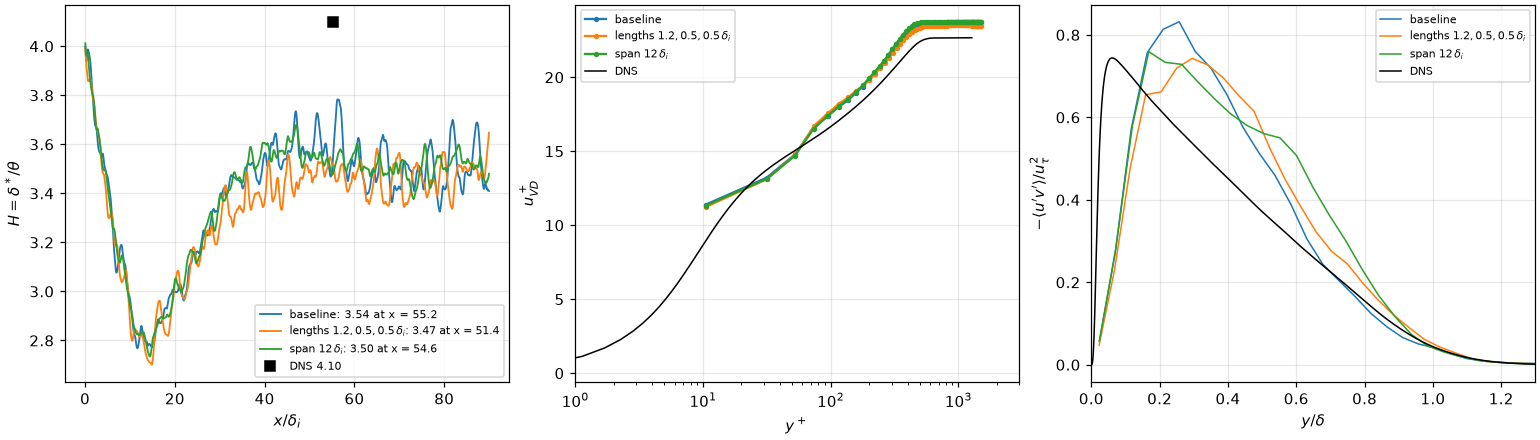
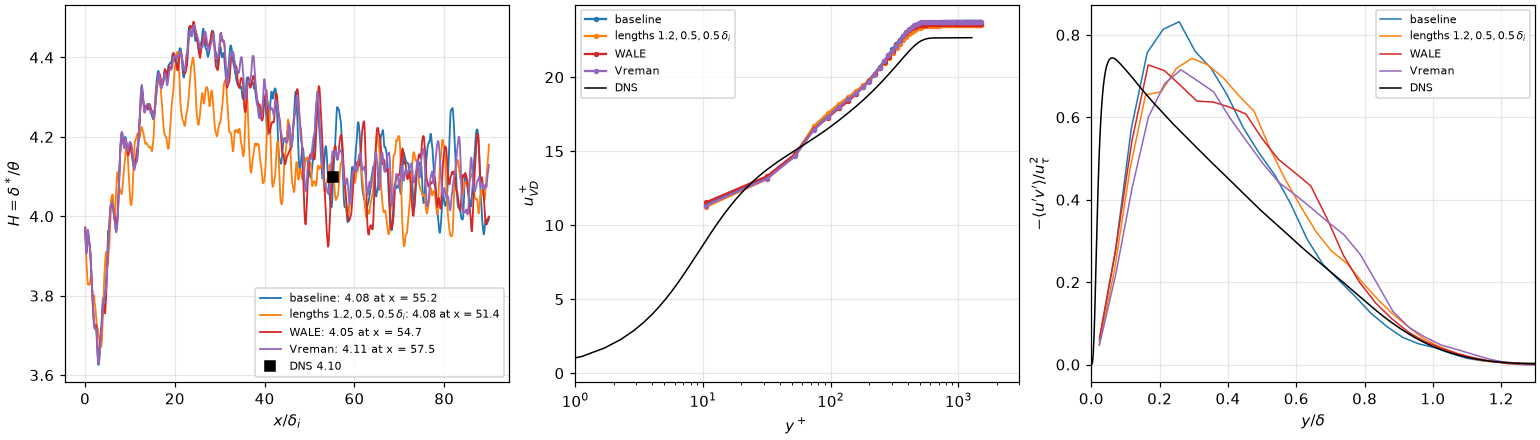
test(flume): the boundary layer's shape factor against the local free stream, and a subgrid model (#119)
The "H deficit" of T3.7 was the measurement. The DNS of Zhang, Duan &
Choudhari normalises its profiles by its free stream at the station; the
run's free stream is compressed by the layer's growth (p_e / p_inf 1.013 at
Mach 2.5, 1.042 at Mach 5.86 at the station, 1.027 and 1.08 near
x = 15 delta_i), and tbl_oracle.py took delta* and theta against the nominal
rho_inf, U_inf, integrated to the top of the box. Against the local edge
state H is the DNS's:

  Mach 2.5 baseline 4.08, filter lengths 4.08, span 12 delta_i 4.11, WALE
  4.05, Vreman 4.11, delta_i / 16 4.23 (DNS 4.10, its profile 4.22; the
  nominal values were 3.47-3.62); Mach 5.86 13.41, under Sutherland 13.71
  (DNS 13.6, its profile 14.9; nominal 9.56, 9.76).

The edge over 2.5-3.5, 3-5 or 4-5.5 delta_i moves H by 0.04.

- tbl_oracle.py compare: H against the edge state (edge_shape: rho_e, the
  Favre u_e over 1.5-2.5 delta, the integrals to 1.5 delta), the DNS
  profile's own H (profile_shape) for reference; H_nominal, rho_e, p_e and
  h_dns_profile in the JSON. Re_theta and the station still from the
  nominal theta.
- tbl_cases_t37_sgs.txt: the delta_i / 12 baseline with sgs_model = wale and
  vreman. Neither changes the layer much (C_f -3.3 %, -4.5 %); WALE's eddy
  viscosity is about 1.5 times the molecular one in the outer layer. What
  is left is in the stresses: the outer -<u'v'> 0.49-0.57 against 0.37.
- make_doc_figures.py: fig_tbl_edge (tbl-edge.png: edge against nominal H,
[…]

diff --git a/src/tests/flume/verification/make_doc_figures.py b/src/tests/flume/verification/make_doc_figures.py
@@ -2558,10 +2558,11 @@ def fig_tbl_m2p5_res(out: Path, runs: Path) -> None:
 
 
 def fig_tbl_hdef(out: Path, runs: Path) -> None:
-    """T3.7 (issue #119): the shape-factor deficit of the Mach 2.5 layer, three runs at delta_i / 12 that differ in one setting each
-    (tbl_cases_t37_l90.txt, the baseline; tbl_cases_t37_hdef.txt, the filter's integral lengths 1.2, 0.5, 0.5 delta_i and a span of 12 delta_i),
-    against the DNS (tbl_oracle.py compare of each, 180 < t <= 360). Left H against x, the DNS at its station; middle u+_VD at the station of the
-    DNS's Re_theta, each with its own u_tau, where the wake carries H; right -<u'v'> over u_tau^2 against y / delta."""
+    """T3.7 (issue #119): the Mach 2.5 layer at delta_i / 12, four runs that differ in one setting each (tbl_cases_t37_l90.txt, the baseline;
+    tbl_cases_t37_hdef.txt, the filter's integral lengths 1.2, 0.5, 0.5 delta_i; tbl_cases_t37_sgs.txt, WALE and Vreman; the span of 12 delta_i,
+    whose checkpoints stay on the cluster, in the table only),
+    against the DNS (tbl_oracle.py compare of each, 180 < t <= 360). Left H against the local edge state against x, the DNS at its station;
+    middle u+_VD at the station of the DNS's Re_theta, each with its own u_tau; right -<u'v'> over u_tau^2 against y / delta."""
     import json  # noqa: PLC0415
     import tempfile  # noqa: PLC0415
 
@@ -2570,7 +2571,8 @@ def fig_tbl_hdef(out: Path, runs: Path) -> None:
 
     stat = HERE / "turbulence" / "reference" / "M2p5_Stat.txt"
     res = {}
-    for case, lab in (("m2p5-wm-l90", "baseline"), ("m2p5-wm-df", r"lengths $1.2, 0.5, 0.5\,\delta_i$"), ("m2p5-wm-z12", r"span $12\,\delta_i$")):
+    for case, lab in (("m2p5-wm-l90", "baseline"), ("m2p5-wm-df", r"lengths $1.2, 0.5, 0.5\,\delta_i$"), 
+                      ("m2p5-wm-wale", "WALE"), ("m2p5-wm-vreman", "Vreman")):
         work = runs / "tbl" / case
         if not work.exists():
             raise FileNotFoundError(work)
@@ -2580,7 +2582,7 @@ def fig_tbl_hdef(out: Path, runs: Path) -> None:
             res[lab] = json.loads(js.read_text())
     _, d = to.read_stat(stat)
     fig, axs = plt.subplots(1, 3, figsize=(14.0, 4.0), constrained_layout=True)
-    for (lab, j), c in zip(res.items(), ("C0", "C1", "C2"), strict=True):
+    for (lab, j), c in zip(res.items(), ("C0", "C1", "C3", "C4"), strict=True):
         ist = j["station"]
         h = np.array([np.nan if v is None else v for v in j["H"]])
         axs[0].plot(j["x"], h, color=c, lw=1.2, label=f"{lab}: {h[ist]:.2f} at x = {j['x'][ist]:.1f}")
@@ -2602,6 +2604,50 @@ def fig_tbl_hdef(out: Path, runs: Path) -> None:
         ax.grid(alpha=0.3)
         ax.legend(fontsize=7)
     fig.savefig(out / "tbl-m2p5-hdef.png", dpi=DPI)
+    plt.close(fig)
+
+
+def fig_tbl_edge(out: Path, runs: Path) -> None:
+    """T3.7 (issue #119): H against the local edge state, as the DNS normalises its profiles, and against the nominal free stream, which the
+    compression of the free stream over the layer biases (tbl_oracle.py compare of each, 180 < t <= 360). Left the Mach 2.5 baseline
+    (tbl_cases_t37_l90.txt), right the Mach 5.86 cold wall (tbl_cases_t37_m6.txt), H against x, the DNS's header H and its profile's (the
+    same integrals) at its station; middle p_e / p_inf and rho_e / rho_inf at the edge of both layers against x."""
+    import json  # noqa: PLC0415
+    import tempfile  # noqa: PLC0415
+
+    sys.path.insert(0, str(HERE / "turbulence"))
+    import tbl_oracle as to  # noqa: PLC0415
+
+    fig, axs = plt.subplots(1, 3, figsize=(14.0, 4.0), constrained_layout=True)
+    for (case, stat, re_inf, x_dns, ax, lab), c in zip(
+        (("m2p5-wm-l90", "M2p5_Stat.txt", None, 53.0, axs[0], "Mach 2.5"), ("m6tw076-wm", "M6Tw076_Stat.txt", 137350.0, 54.0, axs[2], "Mach 5.86")),
+        ("C0", "C3"), strict=True):
+        work = runs / "tbl" / case
+        if not work.exists():
+            raise FileNotFoundError(work)
+        st = HERE / "turbulence" / "reference" / stat
+        with tempfile.TemporaryDirectory() as tmp:
+            js = Path(tmp) / "tbl.json"
+            to.compare(str(work), str(st), 180.0001, str(js), re_inf)
+            j = json.loads(js.read_text())
+        x = np.array(j["x"])
+        ist = j["station"]
+        h, hn = (np.array([np.nan if v is None else v for v in j[k]]) for k in ("H", "H_nominal"))
+        ax.plot(x, h, color=c, lw=1.2, label=f"against the edge state: {h[ist]:.2f} at x = {x[ist]:.1f}")
+        ax.plot(x, hn, color=c, lw=0.8, ls="--", label=f"against the nominal free stream: {hn[ist]:.2f}")
+        ax.plot([x_dns], [j["h_dns"]], "ks", label=f"DNS, its header: {j['h_dns']:.2f}")
+        ax.plot([x_dns], [j["h_dns_profile"]], "k^", label=f"DNS, its profile: {j['h_dns_profile']:.2f}")
+        ax.set_xlabel(r"$x/\delta_i$")
+        ax.set_ylabel(rf"$H=\delta^*/\theta$, {lab}")
+        axs[1].plot(x, j["p_e"], color=c, lw=1.0, label=rf"{lab}: $p_e/p_\infty$")
+        axs[1].plot(x, j["rho_e"], color=c, lw=1.0, ls=":", label=rf"{lab}: $\rho_e/\rho_\infty$")
+    axs[1].axhline(1.0, color="k", lw=0.6)
+    axs[1].set_xlabel(r"$x/\delta_i$")
+    axs[1].set_ylabel(r"the edge state (means over $1.5$-$2.5\,\delta$)")
+    for ax in axs:
+        ax.grid(alpha=0.3)
+        ax.legend(fontsize=7)
+    fig.savefig(out / "tbl-edge.png", dpi=DPI)
     plt.close(fig)
 
 
@@ -4318,7 +4364,7 @@ FIGURES = {"sod": fig_sod, "lax": fig_lax, "shu-osher": fig_shu_osher, "vortex":
            "radiative-cooling": fig_radiative_cooling, "isothermal-eos": fig_isothermal_eos,
            "barotropic-eos": fig_barotropic_eos,
            "tgv-iles": fig_tgv_iles, "tgv-models": fig_tgv_models, "hit": fig_hit, "tgv-hybrid": fig_tgv_hybrid, "channel-wm": fig_channel_wm,
-           "channel-m3": fig_channel_m3, "channel-m3-ev": fig_channel_m3_ev, "tbl-m2p5": fig_tbl_m2p5, "tbl-m6": fig_tbl_m6, "tbl-m2p5-res": fig_tbl_m2p5_res, "tbl-m2p5-hdef": fig_tbl_hdef, "nrbc": fig_nrbc, "shockgen": fig_shockgen,
+           "channel-m3": fig_channel_m3, "channel-m3-ev": fig_channel_m3_ev, "tbl-m2p5": fig_tbl_m2p5, "tbl-m6": fig_tbl_m6, "tbl-m2p5-res": fig_tbl_m2p5_res, "tbl-m2p5-hdef": fig_tbl_hdef, "tbl-edge": fig_tbl_edge, "nrbc": fig_nrbc, "shockgen": fig_shockgen,
            "barotropic-gravity": fig_barotropic_gravity,
            "barotropic-mhd": fig_barotropic_mhd,
            "sink-particles": fig_sink_particles,

diff --git a/src/tests/flume/verification/turbulence/tbl_oracle.py b/src/tests/flume/verification/turbulence/tbl_oracle.py
@@ -7,7 +7,10 @@ POINT, z wall-normal, y spanwise) into the profile table of the digital-filter i
 `agree <a> <b>`: two runs on the same step sequence (ranks, or CPU against GPU): the conservation history within 1e-11 of its column scale.
 `compare <work> <Stat file> [--t0 T] [--json out]`: the checkpoints from time T on, averaged over the span and in time: per x the 99 % thickness, the momentum
 and displacement thicknesses (theta from the Favre mean rho u), H, Re_theta and C_f = 2 d theta / dx (zero pressure gradient; a quadratic fit of theta over
-+-3 delta_i); at the station where Re_theta is the DNS's (or the nearest), C_f against the DNS's 2 (u_tau / U_inf)^2 rho_w / rho_inf, H against its H, the
++-3 delta_i); H against the local edge state (rho_e, u_e the means over 1.5-2.5 delta, the integrals to 1.5 delta: the DNS's profiles are 1 at their free
+stream, while the run's free stream over the layer is compressed by its growth, 1-2 % at Mach 2.5, 4-5 % at Mach 5.86, and the nominal H, integrated to
+the top of the box, lost 0.5 of 4 to it; printed too); Re_theta and the station from the nominal theta;
+at the station where Re_theta is the DNS's (or the nearest), C_f against the DNS's 2 (u_tau / U_inf)^2 rho_w / rho_inf, H against its H, the
 van Driest velocity u+_VD against y+ (with the run's own u_tau) and the rms of u, v (wall-normal), w (spanwise) and <u'v'> over u_tau against y / delta.
 Recorded, not judged: the result is the result.
 `wall-force <channel work>`: the wall-model history of a channel at a steady state: the mean tau_w of both walls (all bins, the last quarter of the rows)
@@ -194,7 +197,8 @@ def compare(work_s: str, stat: str, t0: float, json_out: str | None, re_inf: flo
                      / (a["u"][np.arange(nx), np.maximum(edge, 1)] - a["u"][np.arange(nx), np.maximum(edge, 1) - 1]), np.nan)
     theta = (a["r"] * uf * (1.0 - uf)).sum(axis=1) * dy
     dstar = (1.0 - a["r"] * uf).sum(axis=1) * dy
-    shape = dstar / theta
+    shape_nominal = dstar / theta
+    shape, rho_e, p_e = edge_shape(a, y, delta, t_inf)
     re_theta = re_theta_scale * theta
     cf = np.full(nx, np.nan)
     half = int(round(3.0 / dx))
@@ -233,7 +237,10 @@ def compare(work_s: str, stat: str, t0: float, json_out: str | None, re_inf: flo
     uv = (a["uv"][ist] - a["u"][ist] * a["v"][ist]) / ut**2
     d_dns = delta[ist]
     print(f"== {work.name}: {len(cps)} checkpoints from t = {cps[0][0]:.1f} to {cps[-1][0]:.1f}, {nx} x {ny} cells")
-    print(f"station x = {x[ist]:.2f}: Re_theta {re_theta[ist]:.0f} (DNS {re_dns:.0f}), delta {d_dns:.3f}, theta {theta[ist]:.4f}, H {shape[ist]:.2f} (DNS {float(text_h(stat)):.2f})")
+    h_prof = profile_shape(d)
+    print(f"station x = {x[ist]:.2f}: Re_theta {re_theta[ist]:.0f} (DNS {re_dns:.0f}), delta {d_dns:.3f}, theta {theta[ist]:.4f}, H {shape[ist]:.2f} "
+          f"(DNS {float(text_h(stat)):.2f}, its profile {h_prof:.2f}); the edge rho_e {rho_e[ist]:.4f}, p_e {p_e[ist]:.4f} of the nominal free stream, "
+          f"the nominal H {shape_nominal[ist]:.2f}")
     source = "the wall model's tau_w" if cf_wall is not None else "the momentum integral"
     print(f"C_f ({source}) {cf[ist]:.4e} against the DNS {cf_dns:.4e}: {100.0 * (cf[ist] / cf_dns - 1.0):+.1f} %;  u_tau / U_inf {ut:.5f} (DNS {ut_dns:.5f})")
     b_q = b_q_dns = None
@@ -257,12 +264,42 @@ def compare(work_s: str, stat: str, t0: float, json_out: str | None, re_inf: flo
           f"(DNS {np.interp(0.2, d[:, 1], d[:, 15]):.2f}, {np.interp(0.5, d[:, 1], d[:, 15]):.2f})")
     if json_out:
         out = {"x": x.tolist(), "re_theta": re_theta.tolist(), "cf": [None if not np.isfinite(c) else float(c) for c in cf],
-               "cf_mom": [None if not np.isfinite(c) else float(c) for c in cf_mom], "cf_source": source, "H": shape.tolist(),
+               "cf_mom": [None if not np.isfinite(c) else float(c) for c in cf_mom], "cf_source": source, "H": shape.tolist(), "H_nominal": shape_nominal.tolist(),
+               "rho_e": rho_e.tolist(), "p_e": p_e.tolist(), "h_dns_profile": h_prof,
                "delta": [None if not np.isfinite(c) else float(c) for c in delta], "station": int(ist), "cf_dns": cf_dns, "re_dns": re_dns,
                "y": y.tolist(), "yplus": yplus.tolist(), "uvd": uvd.tolist(), "rms": {k: v.tolist() for k, v in rms.items()}, "uv": uv.tolist(),
                "delta_station": float(d_dns), "t": [t for t, _ in cps], "b_q": b_q, "b_q_dns": b_q_dns, "h_dns": float(text_h(stat))}
         Path(json_out).write_text(json.dumps(out))
     return 0
+
+
+def edge_shape(a: dict, y: np.ndarray, delta: np.ndarray, t_inf: float) -> tuple[np.ndarray, np.ndarray, np.ndarray]:
+    """Per x, H = delta* / theta against the local edge state: rho_e and the Favre u_e the means over 1.5 delta <= y <= 2.5 delta, the integrals to 1.5
+    delta; also rho_e and p_e over the nominal free stream's (rho_inf = 1, p_inf = rho_inf R T_inf = t_inf). NaN where the layer has no 99 % thickness."""
+    nx = a["r"].shape[0]
+    shape, rho_e, p_e = (np.full(nx, np.nan) for _ in range(3))
+    for i in range(nx):
+        if not np.isfinite(delta[i]):
+            continue
+        top = (y >= 1.5 * delta[i]) & (y <= 2.5 * delta[i])
+        if not top.any():
+            continue
+        r, ru = a["r"][i], a["ru"][i]
+        uf = ru / r
+        re_, ue = r[top].mean(), uf[top].mean()
+        m = y < 1.5 * delta[i]
+        rn, un = r[m] / re_, uf[m] / ue
+        shape[i] = (1.0 - rn * un).sum() / (rn * un * (1.0 - un)).sum()
+        rho_e[i] = re_
+        p_e[i] = (a["t"][i][top] * r[top]).mean() / t_inf
+    return shape, rho_e, p_e
+
+
+def profile_shape(d: np.ndarray) -> float:
+    """H of a station file's own profile, integrated as `edge_shape` integrates a run's (to 1.5 delta; rho / rho_inf = (p / p_inf) / (T / T_inf))."""
+    z, u, r = d[:, 1], d[:, 4], d[:, 5] / d[:, 6]
+    m = z <= 1.5
+    return float(np.trapezoid((1.0 - r * u)[m], z[m]) / np.trapezoid((r * u * (1.0 - u))[m], z[m]))
 
 
 def text_bq(stat: str) -> float:

diff --git a/docs/applications/flume/verification/turbulence/index.md b/docs/applications/flume/verification/turbulence/index.md
@@ -364,7 +364,7 @@ the rms over $u_\tau$ at the same station; dashed: the DNS.*
 |---|---|---|
 | $C_f$, the wall model's $\tau_w$ | **2.21e-3** (the two halves of the window 2.19e-3, 2.22e-3) | 2.31e-3 |
 | $C_f$, momentum integral | 1.56e-3 | |
-| $H$ | 3.54 | 4.10 |
+| $H$, against the edge state ([the shape factor](#the-shape-factor-and-the-free-stream)) | 4.08 | 4.10 (its profile: 4.22) |
 | $u^+_{VD}$ at $y^+=30$, $100$, $200$ | 13.1, 17.5, 19.8 | 13.6, 16.7, 18.8 |
 | $u_{rms}$, $v_{rms}$, $w_{rms}$ over $u_\tau$ at $y/\delta=0.2$ | 2.06, 0.81, 1.22 | 1.49, 0.93, 1.12 |
 | $-\langle u'v'\rangle/u_\tau^2$ at $y/\delta=0.2$, $0.5$ | 0.80, 0.50 | 0.62, 0.37 |
@@ -380,9 +380,9 @@ the rms over $u_\tau$ at the same station; dashed: the DNS.*
 - **The momentum integral does not measure $C_f$ here.** Fitted over $\pm3\,\delta_i$, $2\,d\theta/dx$ swings between $0.9$ and $4\cdot10^{-3}$
   along $x$ on the same averaged data, and is $-33$ % at the station. A first run on a $60\,\delta_i$ box had only this estimate, and it reported
   $C_f$ 16–28 % low.
-- **The log layer sits 0.9–1.0 above the DNS in $u^+_{VD}$**, and the wake gives $H$ 14 % low. $u_{rms}$ peaks too high, the near-wall streaks of a
-  coarse LES. The resolved $-\langle u'v'\rangle$ in the outer layer is above the DNS's. At $\delta_i/16$ the log layer, $u_{rms}$ and
-  $-\langle u'v'\rangle$ move toward the DNS, $H$ does not.
+- **The log layer sits 0.9–1.0 above the DNS in $u^+_{VD}$**, and $u_{rms}$ peaks too high, the near-wall streaks of a coarse LES. The resolved
+  $-\langle u'v'\rangle$ in the outer layer is above the DNS's. At $\delta_i/16$ the log layer, $u_{rms}$ and $-\langle u'v'\rangle$ move toward
+  the DNS. $H$, taken against the local free stream as the DNS takes it, is the DNS's within 1 % (4.08).
 
 ### Resolution: Mach 2.5 at $\delta_i/16$
 
@@ -399,7 +399,7 @@ $u^+_{VD}$ at the station of each run. Right: the rms and $-\langle u'v'\rangle$
 |---|---|---|---|
 | $C_f$ at $Re_\theta=2835$ | 2.208e-3 (halves 2.195e-3, 2.220e-3) | **2.306e-3** (halves 2.299e-3, 2.312e-3) | 2.310e-3 |
 | $C_f$ against the DNS scaled as $Re_\theta^{-1/4}$, at $Re_\theta=2600$, 2835, 3000, 3200, 3350 | −12.0, −3.9, −1.6, −0.9, −0.4 % | −3.6, −0.3, +1.0, +0.7, −0.5 % | |
-| $H$ | 3.54 | 3.51 | 4.10 |
+| $H$, against the edge state | 4.08 | 4.23 | 4.10 (its profile: 4.22) |
 | $u^+_{VD}$ at $y^+=30$, $100$, $200$ | 13.1, 17.5, 19.8 | 12.8, 17.3, 19.2 | 13.6, 16.7, 18.8 |
 | $u_{rms}$, $v_{rms}$, $w_{rms}$ over $u_\tau$ at $y/\delta=0.2$ | 2.06, 0.81, 1.22 | 1.79, 0.83, 1.16 | 1.49, 0.93, 1.12 |
 | $-\langle u'v'\rangle/u_\tau^2$ at $y/\delta=0.2$, $0.5$ | 0.80, 0.50 | 0.66, 0.43 | 0.62, 0.37 |
@@ -413,42 +413,57 @@ $u^+_{VD}$ at the station of each run. Right: the rms and $-\langle u'v'\rangle$
   past it, and $C_f$ is $-0.2$ %; the halves of the window differ by 0.6 %.
 - **The near-wall and log-layer statistics converge toward the DNS**: the $u_{rms}$ peak at $y/\delta=0.2$ from 2.06 to 1.79, $-\langle
   u'v'\rangle$ from 0.80 to 0.66, the log-layer offset in $u^+_{VD}$ at $y^+=200$ from +1.0 to +0.4.
-- **$H$ does not move** (3.54, 3.51, against 4.10): its deficit is not the grid at these resolutions. Candidates are the inflow's outer-layer
-  content (the filter's integral lengths), the span of the box ($6\,\delta_i\approx3.4\,\delta$ at the station), and the dissipation of the hybrid
-  scheme in the intermittent outer layer, where the sensor (not calibrated) can switch WENO on. The first two are measured in
-  [the shape factor](#the-shape-factor-mach-2-5-at-delta-i-12).
+- **$H$ is the DNS's on both grids** (4.08, 4.23, against 4.10) once taken against the local free stream
+  ([the shape factor](#the-shape-factor-and-the-free-stream)).
 
-### The shape factor: Mach 2.5 at $\delta_i/12$
+### The shape factor and the free stream
 
-Two runs of the $\delta_i/12$ case, each changing one setting (`tbl_cases_t37_hdef.txt`): the filter's integral lengths raised from $0.8, 0.3,
-0.3$ to $1.2, 0.5, 0.5\,\delta_i$ (more outer-layer content at the inflow), and the span doubled to $12\,\delta_i$ ($1080\times72\times144$
-cells, $\approx6.9\,\delta$ at the station). Same averaging, $180<t\le360$: 34 and 35 checkpoints.
+The DNS's profiles are normalised by its free stream at the station, and are 1 there. The run's free stream is not the nominal one: the layer
+thickens downstream and turns the supersonic stream over it, a weak compression of order $\gamma M^2 (d\delta^*/dx)/\sqrt{M^2-1}$ (linear
+supersonic theory). `tbl_oracle.py compare` takes $\delta^*$ and $\theta$ against the local edge state: $\rho_e$ and the Favre $u_e$ the means over
+$1.5$–$2.5\,\delta$, the integrals to $1.5\,\delta$, the DNS's own profile integrated the same way (4.22 at Mach 2.5, against the header's
+rounded 4.1). Earlier versions of this page took them against the nominal $\rho_\infty$, $U_\infty$ and integrated to the top of the box. That
+reported $H$ 14 % low at Mach 2.5 and 30 % low at Mach 5.86, and the runs below set out to explain a deficit that was the measurement.
 
-![The shape factor of the Mach 2.5 layer, three runs](/flume/tbl-m2p5-hdef.png)
+![H against the edge state and against the nominal free stream](/flume/tbl-edge.png)
 
-*Left: $H$ against $x$; the square is the DNS at its station. Middle: $u^+_{VD}$ at the station of each run. Right: $-\langle u'v'\rangle/u_\tau^2$
-against $y/\delta$; black, the DNS.*
+*Left and right: $H$ of the Mach 2.5 baseline and the Mach 5.86 run against $x$, against the edge state (solid) and the nominal free stream
+(dashed); the DNS's header and its profile's at its station. Middle: the edge pressure and density over the nominal ones against $x$.*
 
-| At $Re_\theta=2835$ | baseline | lengths $1.2, 0.5, 0.5\,\delta_i$ | span $12\,\delta_i$ | DNS |
-|---|---|---|---|---|
-| station $x/\delta_i$ | 55.2 | 51.4 | 54.6 | 53 |
-| $H$ | 3.54 | 3.47 | 3.50 | 4.10 |
-| $C_f$, the wall model's $\tau_w$ | 2.208e-3 (−4.4 %) | 2.248e-3 (−2.7 %) | 2.205e-3 (−4.6 %) | 2.310e-3 |
-| $u^+_{VD}$ at $y^+=30$, $100$, $200$ | 13.1, 17.5, 19.8 | 13.0, 17.7, 19.8 | 13.0, 17.5, 19.9 | 13.6, 16.7, 18.8 |
-| $u_{rms}$, $v_{rms}$, $w_{rms}$ over $u_\tau$ at $y/\delta=0.2$ | 2.06, 0.81, 1.22 | 1.97, 0.75, 1.15 | 2.08, 0.79, 1.22 | 1.49, 0.93, 1.12 |
-| $-\langle u'v'\rangle/u_\tau^2$ at $y/\delta=0.2$, $0.5$ | 0.80, 0.50 | 0.66, 0.57 | 0.74, 0.56 | 0.62, 0.37 |
+- **The free stream is compressed.** At Mach 2.5 $p_e/p_\infty$ rises to 1.027 at $x\approx15$ and is 1.013 at the station, $\rho_e/\rho_\infty$
+  1.009; at Mach 5.86 1.08 and 1.042. Integrated to the top of the box ($6\,\delta_i$, more than $3\,\delta$), the denser stream over the layer
+  takes 0.5 off $H$ at Mach 2.5 and 4 at Mach 5.86. The dip of the nominal $H$ to 2.8 at $x\approx15$ is the compression's peak, not the
+  layer.
+- **Against the edge state $H$ is the DNS's**: 4.08 at Mach 2.5 (4.10, its profile 4.22), 13.4 at Mach 5.86 (13.6, its profile 14.9). Taken
+  over $2.5$–$3.5$, $3$–$5$ or $4$–$5.5\,\delta_i$, the edge moves it by 0.04 at Mach 2.5.
+
+**Five runs at $\delta_i/12$.** Before the measurement was found, the Mach 2.5 case ran with one setting changed each, to look for the deficit:
+the filter's integral lengths raised from $0.8, 0.3, 0.3$ to $1.2, 0.5, 0.5\,\delta_i$ and the span doubled to $12\,\delta_i$
+($1080\times72\times144$ cells; `tbl_cases_t37_hdef.txt`), and an algebraic subgrid model, `[turbulence] sgs_model = wale` and `vreman`, their
+default constants (`tbl_cases_t37_sgs.txt`; WALE on dev-gn, Vreman on prod-gn). Same averaging, 33–35 checkpoints of $180<t\le360$. They measure
+how much the other statistics depend on these settings.
+
+![Runs of the Mach 2.5 layer](/flume/tbl-m2p5-hdef.png)
+
+*Four of the runs (the span of $12\,\delta_i$ in the table only). Left: $H$ against the edge state, against $x$; the square is the DNS at its station. Middle: $u^+_{VD}$ at the station of each run. Right:
+$-\langle u'v'\rangle/u_\tau^2$ against $y/\delta$; black, the DNS.*
+
+| At $Re_\theta=2835$ | baseline | lengths $1.2, 0.5, 0.5\,\delta_i$ | span $12\,\delta_i$ | WALE | Vreman | DNS |
+|---|---|---|---|---|---|---|
+| station $x/\delta_i$ | 55.2 | 51.4 | 54.6 | 54.7 | 57.5 | 53 |
+| $H$, against the edge state | 4.08 | 4.08 | 4.11 | 4.05 | 4.11 | 4.10 (its profile: 4.22) |
+| $C_f$, the wall model's $\tau_w$ | 2.208e-3 (−4.4 %) | 2.248e-3 (−2.7 %) | 2.205e-3 (−4.6 %) | 2.235e-3 (−3.3 %) | 2.206e-3 (−4.5 %) | 2.310e-3 |
+| $u^+_{VD}$ at $y^+=30$, $100$, $200$ | 13.1, 17.5, 19.8 | 13.0, 17.7, 19.8 | 13.0, 17.5, 19.9 | 13.2, 17.4, 19.7 | 13.0, 17.5, 19.7 | 13.6, 16.7, 18.8 |
+| $u_{rms}$, $v_{rms}$, $w_{rms}$ over $u_\tau$ at $y/\delta=0.2$ | 2.06, 0.81, 1.22 | 1.97, 0.75, 1.15 | 2.08, 0.79, 1.22 | 1.97, 0.76, 1.19 | 1.94, 0.74, 1.27 | 1.49, 0.93, 1.12 |
+| $-\langle u'v'\rangle/u_\tau^2$ at $y/\delta=0.2$, $0.5$ | 0.80, 0.50 | 0.66, 0.57 | 0.74, 0.56 | 0.72, 0.55 | 0.66, 0.49 | 0.62, 0.37 |
 
 **What it shows.**
-- **Neither setting is the deficit.** $H$ is 3.47–3.54 in all three runs, within the $\pm0.1$ that $H$ wanders along the plateau
-  ($x=40$–$90$) of each; with the $\delta_i/16$ run, four runs agree.
-- **The inflow profile is lost in the first $15\,\delta_i$.** Every run starts at the DNS's $H\approx4.0$ (the inflow is its profile), falls to 2.8 by
-  $x\approx15$ while the synthetic eddies adapt, and recovers to a plateau of 3.5: the plateau is the LES's own equilibrium, not a memory of the
-  inflow. Longer integral lengths shorten the recovery a little ($C_f$ −2.7 % at the station, the layer reaches $Re_\theta=2835$ at $x=51$), as the
-  $\delta_i/16$ grid did.
-- **The outer layer mixes too much in every run.** $-\langle u'v'\rangle$ at $y/\delta=0.5$ is 0.50–0.57 against 0.37, and $u^+_{VD}$ sits 0.9–1.1
-  above the DNS from $y^+=100$ outward. A larger outer-layer shear stress fills the profile, and a fuller profile has a lower $H$. These runs
-  have no subgrid model (`hybrid-kep-weno`, the central part non-dissipative); what is left to measure is the outer layer's closure, a subgrid
-  model or the sensor that switches WENO on there.
+- **None of the settings changes the layer much.** $H$ stays within 0.06 of the DNS's header value, $C_f$ within 2 % of the baseline's; longer
+  integral lengths shorten the inflow's recovery a little (the layer reaches $Re_\theta=2835$ at $x=51$, $C_f$ −2.7 %), as $\delta_i/16$ did.
+- **The subgrid model is active, and does not matter at this grid.** WALE's eddy viscosity, computed from a checkpoint, is about 1.5 times the
+  molecular one over $0.3$–$0.75\,\delta$ and 0.4 at the edge.
+- **What is left is in the stresses**, not in the mean: the outer $-\langle u'v'\rangle$ is 0.49–0.57 at $0.5\,\delta$ against 0.37 in every run,
+  and the near-wall $u_{rms}$ peak 1.9–2.1 against 1.5. At $\delta_i/16$ both move toward the DNS ([resolution](#resolution-mach-2-5-at-delta-i-16)).
 
 ### Mach 5.86, cold wall
 
@@ -472,7 +487,7 @@ $\tau_w$.
 | $C_f$, the wall model's $\tau_w$ | **9.47e-4** (the two halves of the window 9.70e-4, 9.25e-4); $x=60$–$110$: 9.78e-4 | 9.51e-4; $x=60$–$110$: 9.80e-4 | 9.84e-4 |
 | $B_q$, the wall model's $q_w$ | **−0.0189** (halves −0.0191, −0.0187); $x=60$–$110$: −0.0194 | −0.0190 | −0.02 (one significant figure) |
 | $\delta/\delta_i$ | 1.61 | 1.61 | 1.72 |
-| $H$ | 9.56 | 9.76 | 13.6 |
+| $H$, against the edge state | 13.41 | 13.71 | 13.6 (its profile: 14.9) |
 | $u^+_{VD}$ at $y^+=30$, $100$, $200$ | 12.4, 17.9, 20.8 | 12.4, 17.9, 20.6 | 13.9, 17.2, 19.5 |
 | $u_{rms}$, $v_{rms}$, $w_{rms}$ over $u_\tau$ at $y/\delta=0.2$ | 2.21, 0.56, 0.94 | 2.24, 0.55, 0.90 | 1.33, 0.82, 0.99 |
 | $-\langle u'v'\rangle/u_\tau^2$ at $y/\delta=0.2$, $0.5$ | 0.64, 0.39 | 0.65, 0.35 | 0.49, 0.25 |
@@ -485,15 +500,15 @@ $\tau_w$.
   wall model's heat flux follows its friction. 180 time units are 1.5 flow-throughs of this box, so the $C_f$ figure carries about $\pm2$ %.
 - **The inflow recovers by $x\approx55$–$60\,\delta_i$**, farther than at Mach 2.5 (50): $C_f$ falls from $1.4\cdot10^{-3}$ at the inlet to
   $0.8\cdot10^{-3}$ at $x\approx33$, then rises to its plateau. The layer reaches the DNS's $Re_\theta$ at $x=55$, against 54 in the DNS.
-- **The outer layer has the Mach 2.5 faults, larger.** $H$ is 30 % low and $\delta$ 6 % thin; $u_{rms}$ peaks at 1.7 times the DNS's at
-  $y/\delta=0.2$, and $u^+_{VD}$ is 1.5 below the DNS at $y^+=30$ (the first
-  cells under the matching point) and 0.7–1.3 above it at $y^+=100$–$200$. At $\delta_i/12$ the layer of $Re_\tau=453$ has about 20 cells across
-  $\delta$. At Mach 2.5 a finer grid moves the log layer and the stresses toward the DNS but leaves $H$ where it is, so the $H$ deficit is not
-  resolution at these grids ([resolution](#resolution-mach-2-5-at-delta-i-16)). The viscosity, matched at the wall, is 1.41 times the DNS's in
-  the free stream: a confound of the outer layer here. A run under Sutherland's law (`viscosity_law = sutherland`, $S=110.4$ K, the DNS's
-  $Re=137350$ per $\delta_i$; `tbl_cases_t37_hdef.txt`, 29 checkpoints) removes it and changes little: $H$ 9.76 against 9.56, $C_f$ −3.4 %
-  against −3.8 % at the station, the plateau 9.80e-4, $B_q$ −0.0190. The viscosity of the outer layer is not the $H$ deficit either
-  ([the shape factor](#the-shape-factor-mach-2-5-at-delta-i-12)).
+- **$H$ is the DNS's** against the edge state (13.4; the header 13.6, its profile 14.9): the free stream over this layer is compressed by 4 %
+  ([the shape factor](#the-shape-factor-and-the-free-stream)).
+- **The stresses have the Mach 2.5 faults, larger.** $\delta$ is 6 % thin; $u_{rms}$ peaks at 1.7 times the DNS's at $y/\delta=0.2$, and
+  $u^+_{VD}$ is 1.5 below the DNS at $y^+=30$ (the first cells under the matching point) and 0.7–1.3 above it at $y^+=100$–$200$. At $\delta_i/12$
+  the layer of $Re_\tau=453$ has about 20 cells across $\delta$; at Mach 2.5 a finer grid moves the log layer and the stresses toward the DNS
+  ([resolution](#resolution-mach-2-5-at-delta-i-16)).
+- **Sutherland's law with the DNS's Reynolds number changes little.** The viscosity, matched at the wall, is 1.41 times the DNS's in the free
+  stream. A run under Sutherland's law (`viscosity_law = sutherland`, $S=110.4$ K, the DNS's $Re=137350$ per $\delta_i$; `tbl_cases_t37_hdef.txt`,
+  29 checkpoints) removes that: $H$ 13.71 against 13.41, $C_f$ −3.4 % against −3.8 % at the station, the plateau 9.80e-4, $B_q$ −0.0190.
 - **The momentum integral is useless here too** ($-62$ % at the station, negative in places).
 
 ## Not done
@@ -501,6 +516,6 @@ $\tau_w$.
 - HLLC at $256^3$, M 0.1 was dropped by owner decision.
 - Spectra against the DNS: the file holds integrals only. The DNS of Johnsen et al. for the isotropic case.
 - Calibration of the sensor; a model masked by face rather than by cell; `central-bcs` on a forest seam.
-- T3: why the classical damping overshoots at Mach 3; a cheaper flux path below $h$; the boundary layer: the matching height, the $H$ deficit (the outer layer's closure: a subgrid model, the sensor; the inflow lengths, the span and the grid are ruled out), a longer window at Mach 5.86; SBLI; runtime regridding along a modelled wall; mean profiles
+- T3: why the classical damping overshoots at Mach 3; a cheaper flux path below $h$; the boundary layer: the matching height, the outer-layer and near-wall stresses at $\delta_i/12$, a longer window at Mach 5.86; $Re_\theta$ and the station against the edge state (they use the nominal free stream); SBLI; runtime regridding along a modelled wall; mean profiles
   against the DNS; the relaminarisation of the inverse model on $96\times48\times48$ with $u_e = 1.18$; an edge state taken from the flow.
 - A model on 2:1 grids beyond conservation; runtime AMR with a model; a wall.
